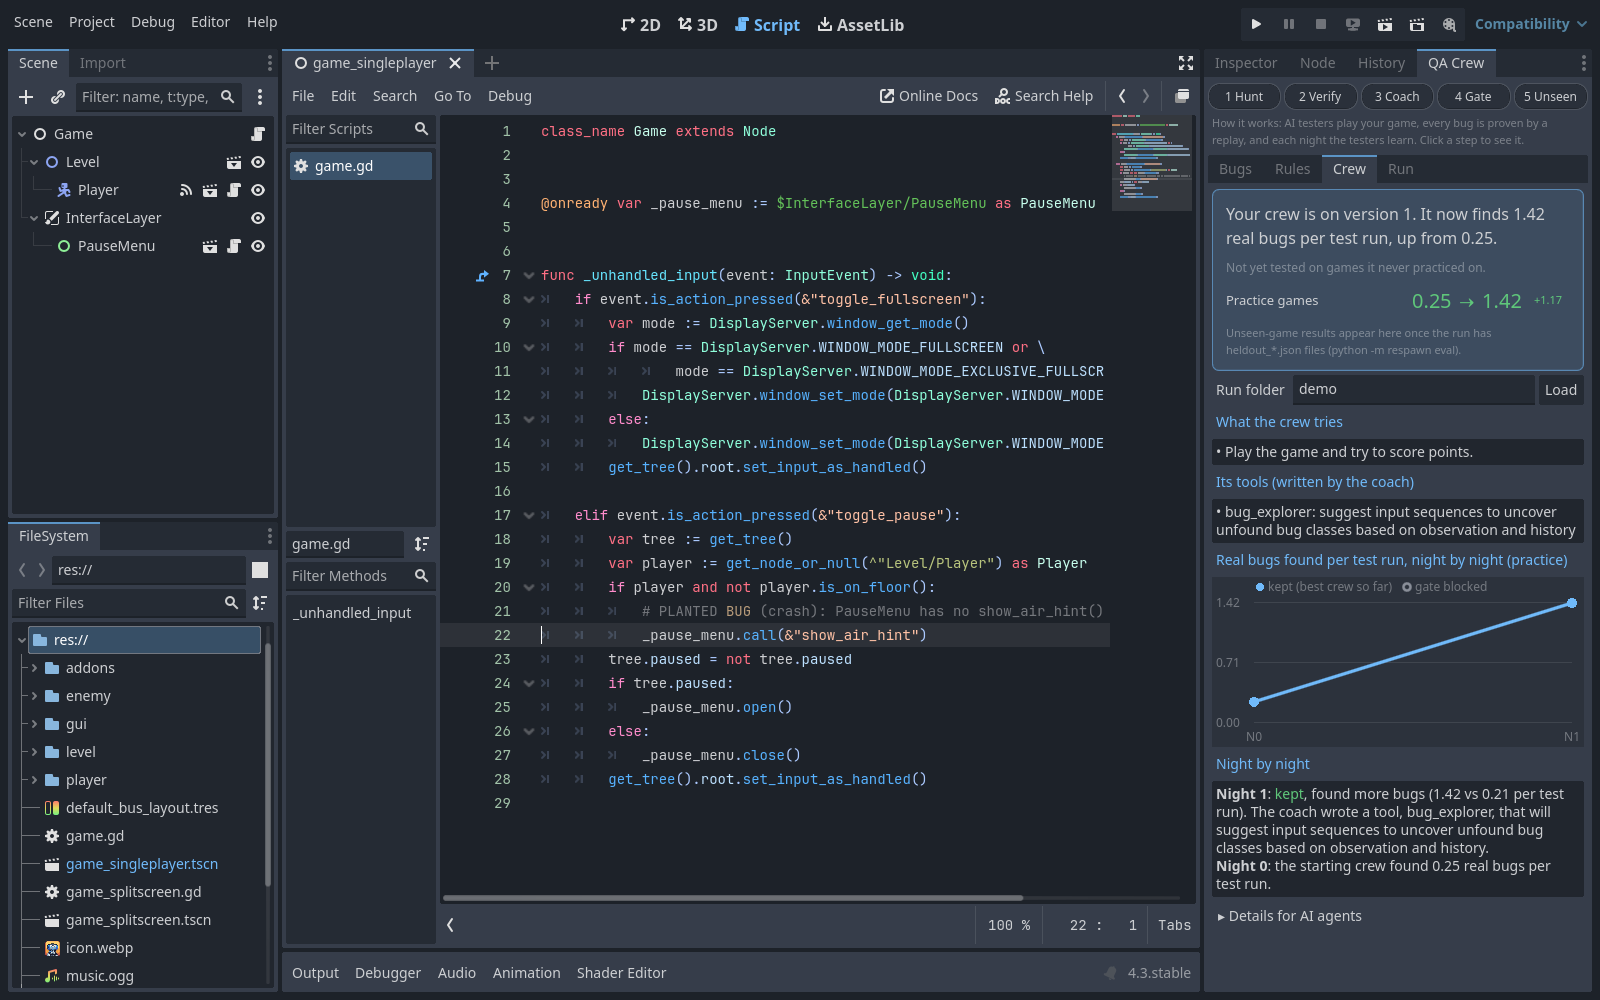
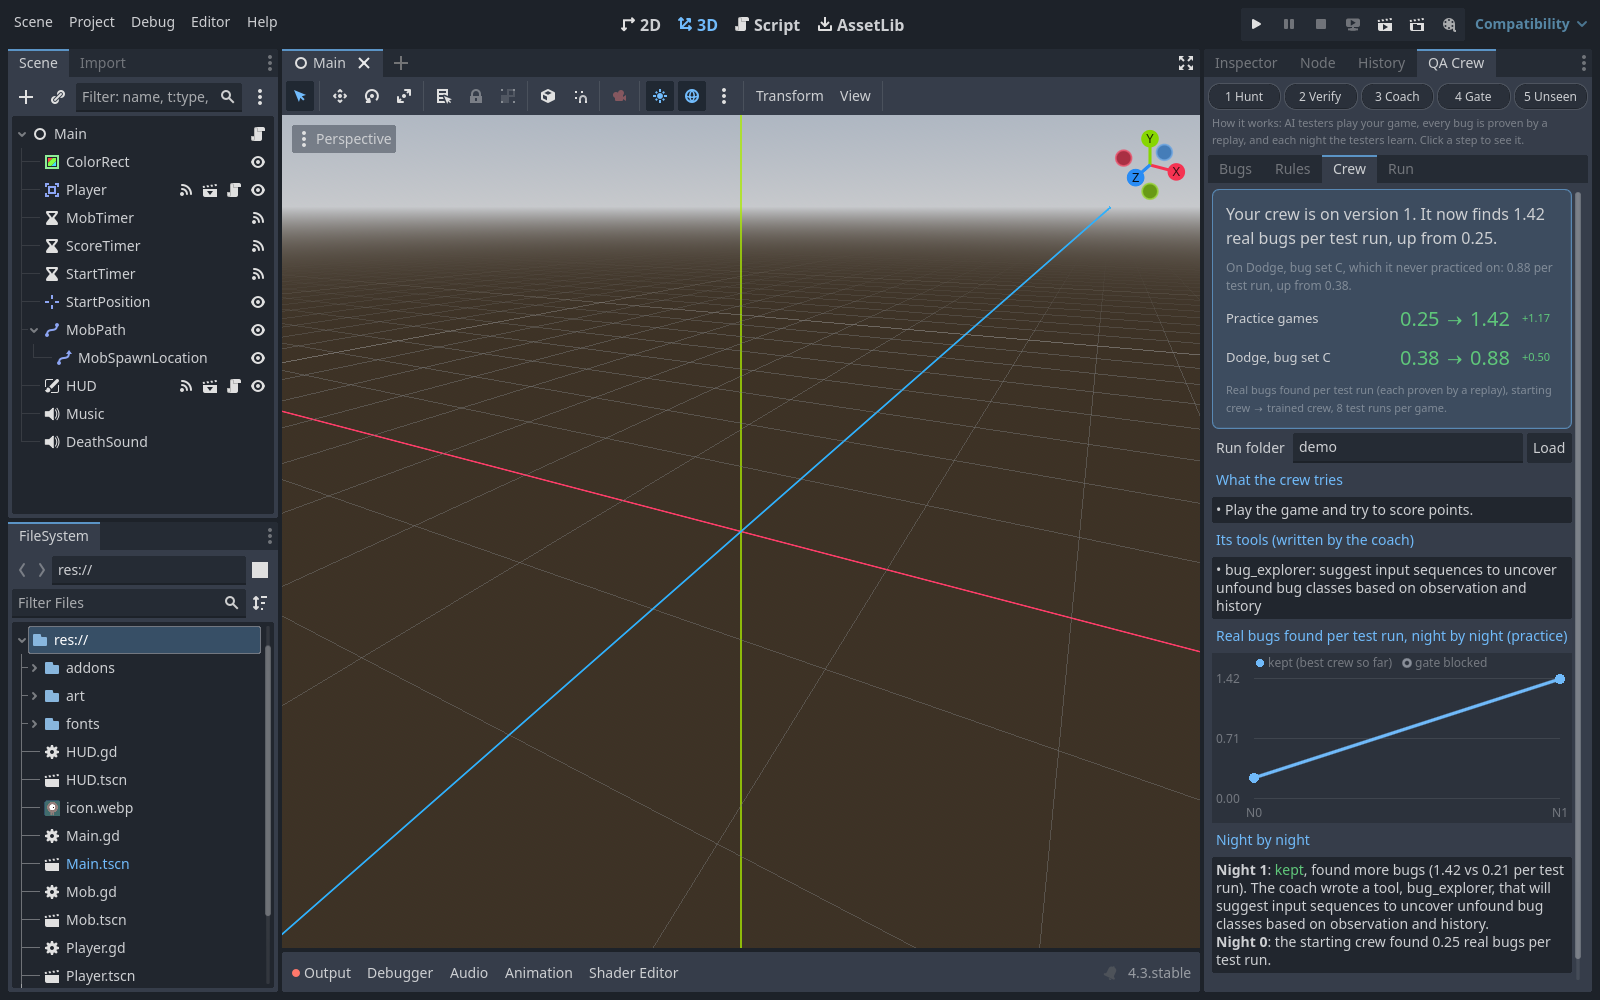
Run 2 held-out Dodge result in demo/; QA Crew tab really comes to the front
demo/heldout_godot_hunt_dodge.*: trained crew 0.875 vs 0.375 verified bugs per session on Dodge
(bug set C, never trained on), 4 better / 0 worse / 4 tied, P(better) 0.997; README updated.
The plugin now selects its dock tab 1 s after load: a deferred call ran before the editor restored
its saved layout, so on a fresh project Inspector stayed in front.

Claude-Session: https://claude.ai/code/session_01WAtk44nnSCRP9roZo8wCi4

diff --git a/README.md b/README.md
@@ -167,7 +167,10 @@ Run 2 is the shipped demo crew (`demo/lineage.jsonl`, `demo/genomes/`; copied fr
 sessions per night): on night 1 the coach wrote `tools/bug_explorer.py` (picks input sequences aimed at the bug
 classes not found yet) and the gatekeeper kept it, training score 2.5 -> 14.2 points per session (11 wins, 0
 losses, 1 tie on the paired sessions, P(better) 1.00). Two earlier night-1/2 attempts failed their own tool tests
-before a restart. Held-out results for run 2 go in `demo/heldout_*.json` when its evaluation finishes.
+before a restart. Held-out, on Dodge the Creeps (bug set C, never trained on, 8 sessions): the trained crew
+finds 0.875 verified bugs per session vs 0.375 for the starting crew (4 better, 0 worse, 4 tied; 90% CI of the
+gain [+2.5, +7.5] points, P(better) 0.997; `demo/heldout_godot_hunt_dodge.md`). The platformer held-out eval
+(bug set B) lands in `demo/heldout_godot_hunt_heldout.json` when it finishes.
 
 Run 1 (kept for honesty in `demo/run1/`: lineage, genomes and held-out files; 6 nights, 8 paired training sessions per night, score = 10 per verified bug):
 
